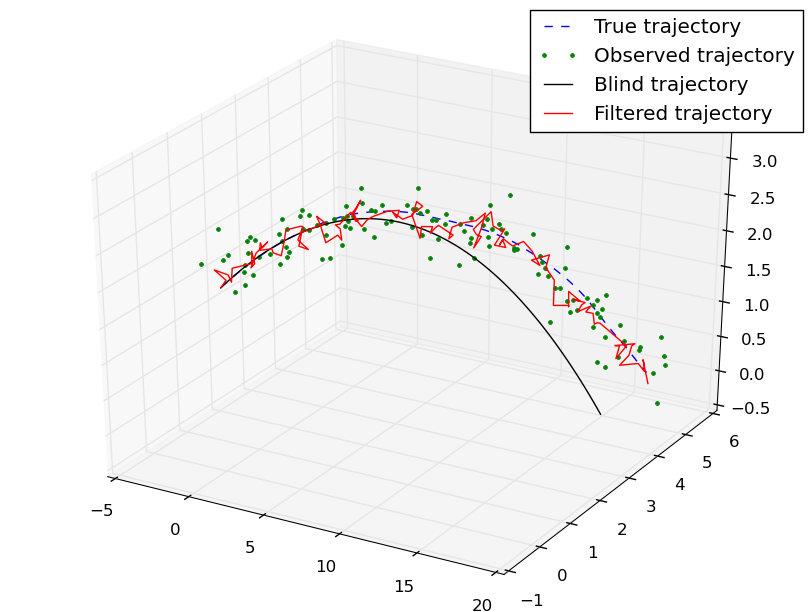
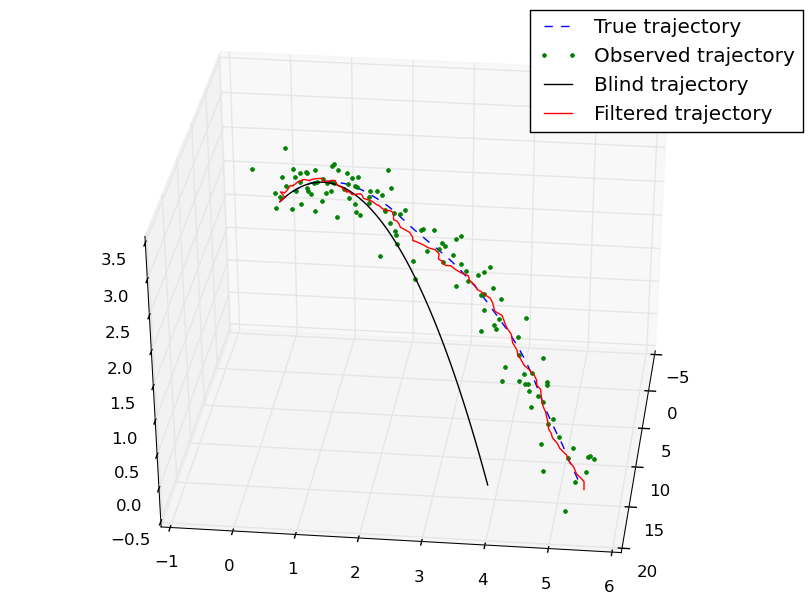
fixed P4

diff --git a/HW0/P4/P4.py b/HW0/P4/P4.py
@@ -97,20 +97,19 @@ if __name__ == '__main__':
     
     # predictS gives intermediate estimate ~s based on known s_k 
     def predictS(s_k):
-        #return np.squeeze(np.asarray(np.dot(A,s_k)+a))
-        return np.dot(A,s_k)+a
+        return np.dot(A,s_k)+a #matrix
     
     # predictSig predicts intermediate ~Sigma given Sigmak
     def predictSig(Sig_k):
-        return np.linalg.inv(A*Sig_k*A.transpose() + B*B.transpose())
+        return np.linalg.inv(A*Sig_k*A.transpose() + B*B.transpose()) #matrix
         
     # updateSig takes covariance matrix predictor (from predictSig) and outputs (k+1)th Sigma
     def updateSig(Sig_pred):
-        return np.linalg.inv(Sig_pred + C.transpose() * C)
+        return np.linalg.inv(Sig_pred + C.transpose() * C) #matrix
         
     # updateS calculates value of (k+1)th s
     def updateS(Sig_k,s_k,l):
-        return updateSig(predictSig(Sig_k)) * (predictSig(Sig_k) * predictS(s_k).T + C.T * np.asmatrix(m[l+1]).transpose())
+        return updateSig(predictSig(Sig_k)) * (predictSig(Sig_k) * predictS(s_k).T + C.T * np.asmatrix(m[l+1]).transpose()) #matrix
 
     # initialize list S with value of s0
     S = [s0]
@@ -120,7 +119,7 @@ if __name__ == '__main__':
     # convert value to 1D array, and append to end of S
     for k in xrange(1,K-1):
         S.append(np.squeeze(np.asarray(updateS(Sigma_next,S[len(S)-1],k))))
-        Sigma_next = updateSig(Sigma_next)
+        Sigma_next = updateSig(predictSig(Sigma_next))
     
     # transpose list of arrays to obtain (x, y, z) coordinates
     x_filt, y_filt, z_filt = np.asarray(S).T[0:3]
